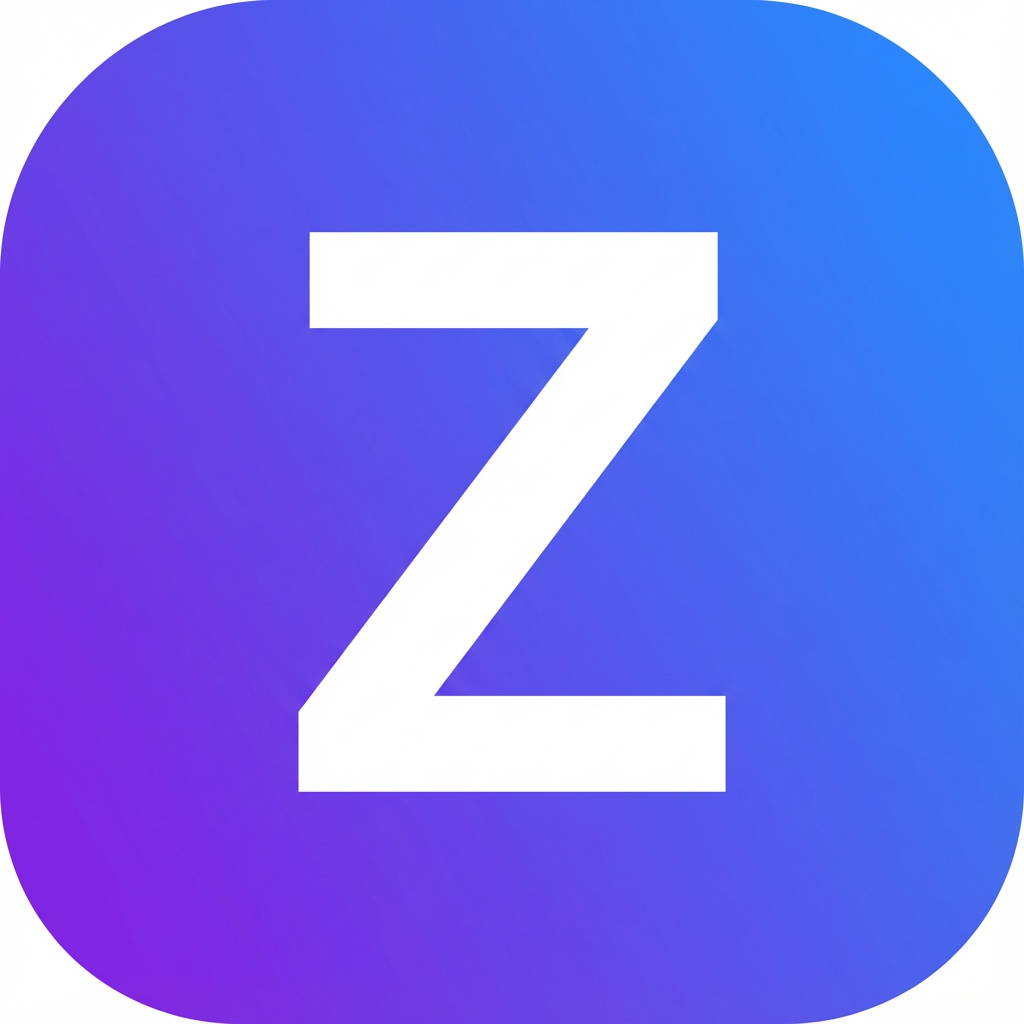
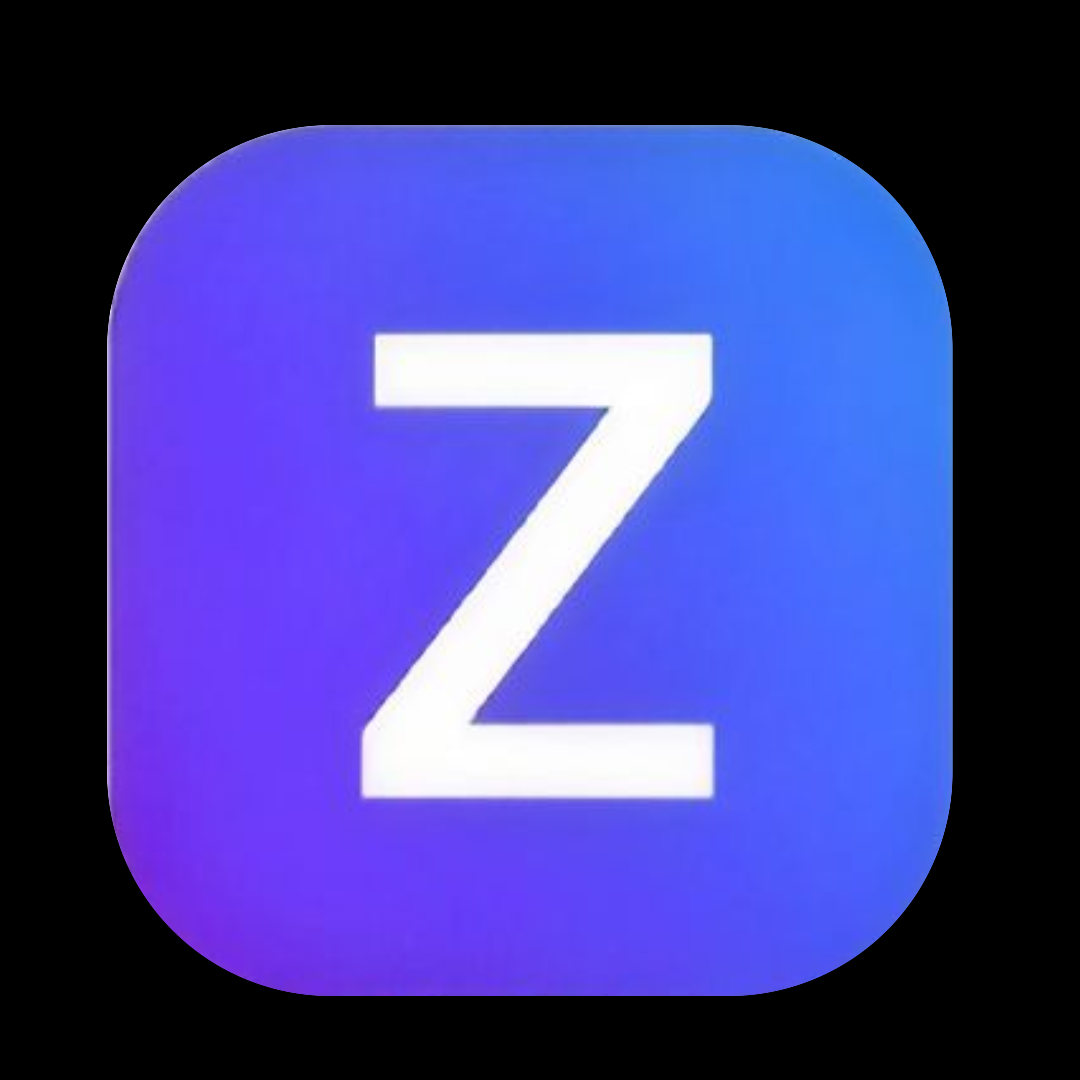
Checkpoint: 替换登录页面logo为用户提供的无白边版本
- 复制用户提供的新logo文件（紫蓝渐变背景，无白边）到client/public/zenith-icon-only.png
- 新logo设计特点：圆角正方形，紫蓝渐变背景直接延伸到边缘，白色"Z"字母居中
- 已验证登录页面logo显示正常，视觉效果专业现代
- 文件大小：873KB

diff --git a/todo.md b/todo.md
@@ -1429,5 +1429,12 @@
 - [x] 修复登录页面logo显示错误（改为zenith-icon-only.png）
 - [x] 修复ConversationHistory页面时间显示错误（改为Asia/Shanghai时区）
 - [x] 修复OrderManagement页面时间显示错误（改为Asia/Shanghai时区）
-- [ ] 测试修复后的效果
-- [ ] 创建检查点
+- [x] 测试修复后的效果
+- [x] 创建检查点
+
+## 登录页面logo白边问题修复
+- [x] 检查zenith-icon-only.png图片文件是否本身有白边（确认：白边是设计的一部分）
+- [x] 尝试使用Python裁剪白边（失败：整个画布都被使用）
+- [x] 等待用户提供新的无白边logo图片
+- [x] 替换logo文件并测试显示效果
+- [x] 创建检查点
